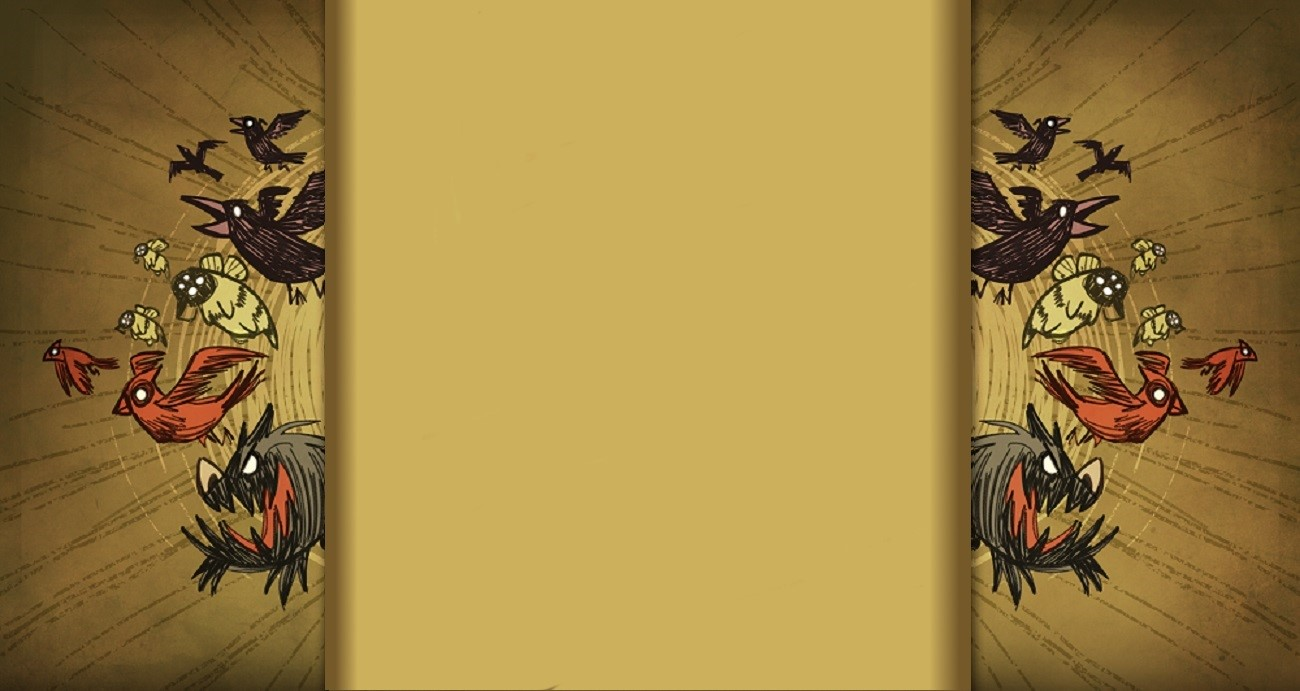
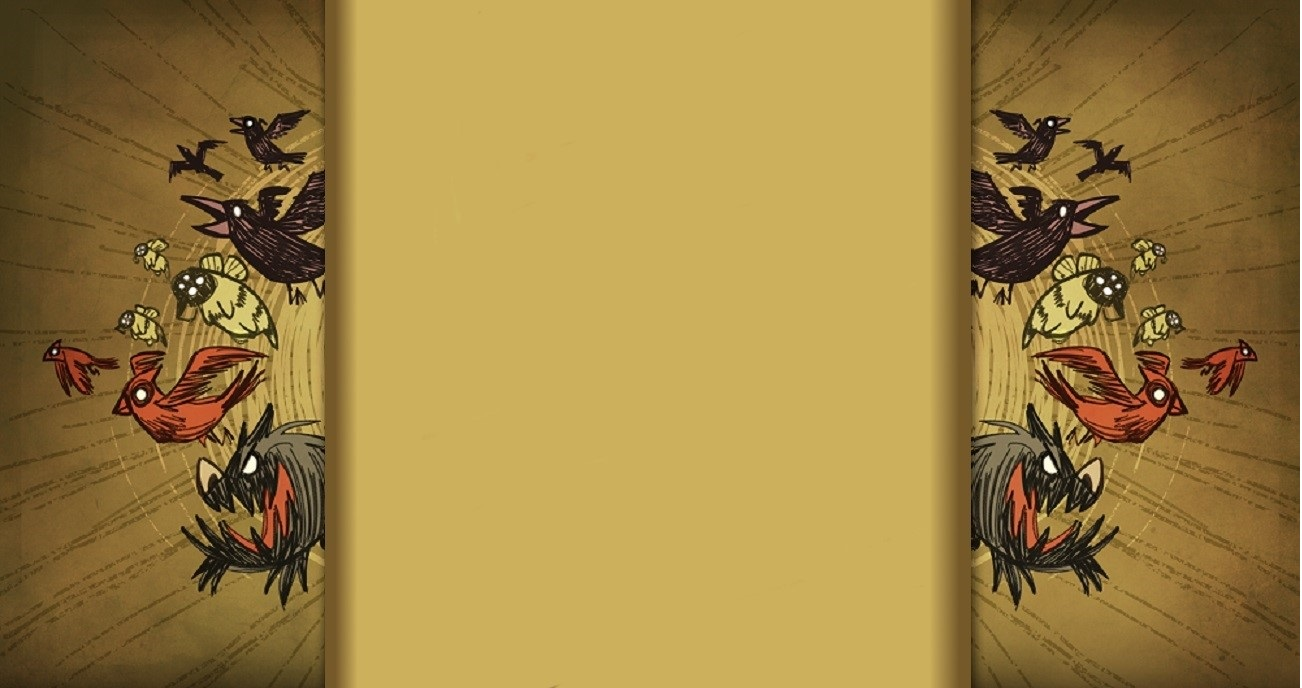
no message

diff --git a/codepenImg/DS/style.css b/codepenImg/DS/style.css
@@ -19,7 +19,7 @@ a {
 body{
   font-family:'Carrois Gothic SC', sans-serif;
   text-align: center;
-  background:url("https://github.com/ShinyVerse/projects/blob/master/codepenImg/DS/bg-Copy.jpg?raw=true") repeat;
+  background:url("https://github.com/ShinyVerse/projects/blob/master/codepenImg/DS/bgcopy.jpg?raw=true") repeat;
   background-size: contain;
 }
 
